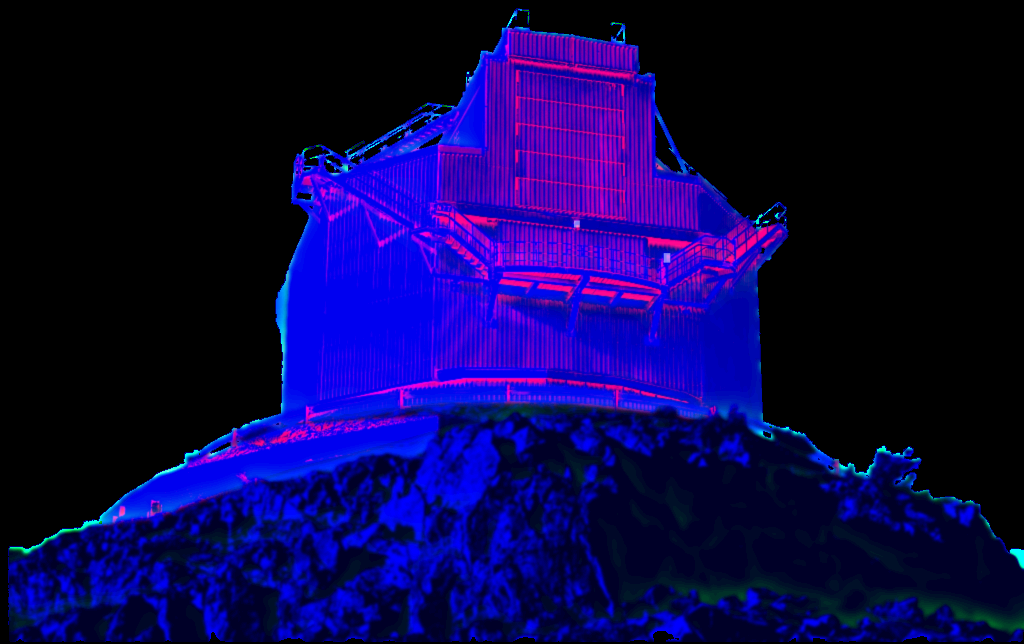
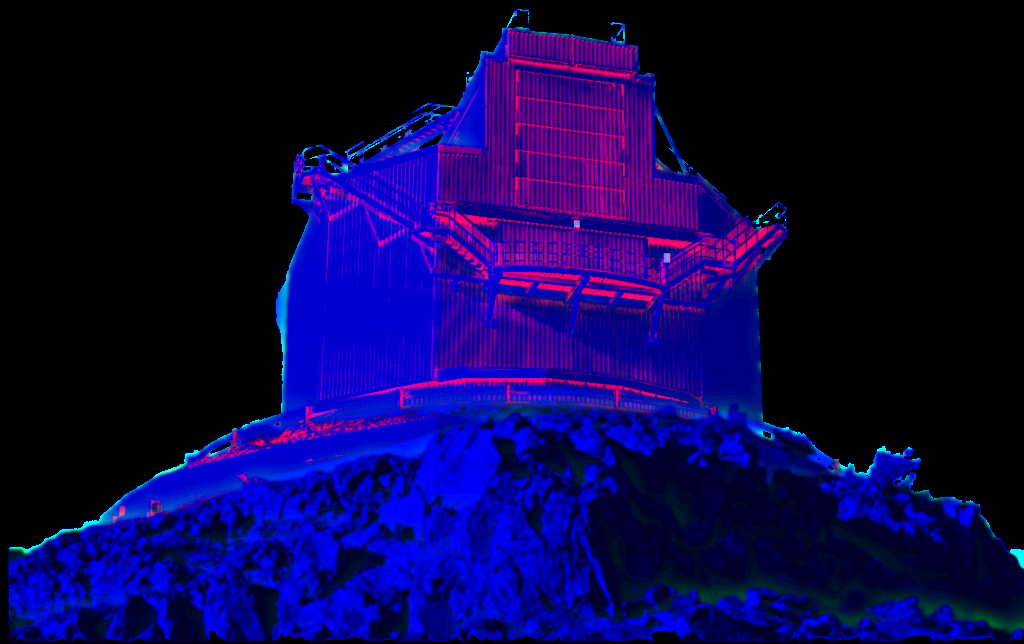
feat(landing): La Silla's plate carries more detail, by day and by night
The plate is re-exported (astrolabe-site fbdad68) with a wider tone range in the granite, more of the rock's joints and the building's short members drawn, and lighter cladding ribs. At night its ivory is shaped after the ground floor: faces toward the moon thicken and the rest thin to a sparse stipple, so the crown and the building read as lit forms instead of one even grey. Only La Silla takes that branch; the other plates are pixel-identical.

diff --git a/apps/landing/src/scripts/plate.js b/apps/landing/src/scripts/plate.js
@@ -157,6 +157,9 @@ import Twilight from "./twilight.js";
       float pale = smoothstep(0.1, 0.55, tone.b);
       light = max(light, bare * pale * (0.04 + 0.14 * sky + 0.16 * lit));
       light = max(light, bare * u_ground * (0.15 + 0.18 * pale + 0.08 * sky + 0.1 * lit));
+      // On that plate the floor would flatten everything to one grey, so the ivory is shaped after it:
+      // faces toward the moon thicken, the rest thin to a sparse stipple that still reads as ground.
+      if (u_ground > 0.0 && u_moon > 0.5) light = max(0.12 * bare, 0.7 * smoothstep(0.16, 0.7, light));
       // The paper's tooth: even a face square to the sun keeps a few grains, as the Mercury prints do.
       dark = max(pow(dark, 1.15) * 0.8, u_y.y < paper ? 0.035 * (1.0 - snow) : 0.0);
 
